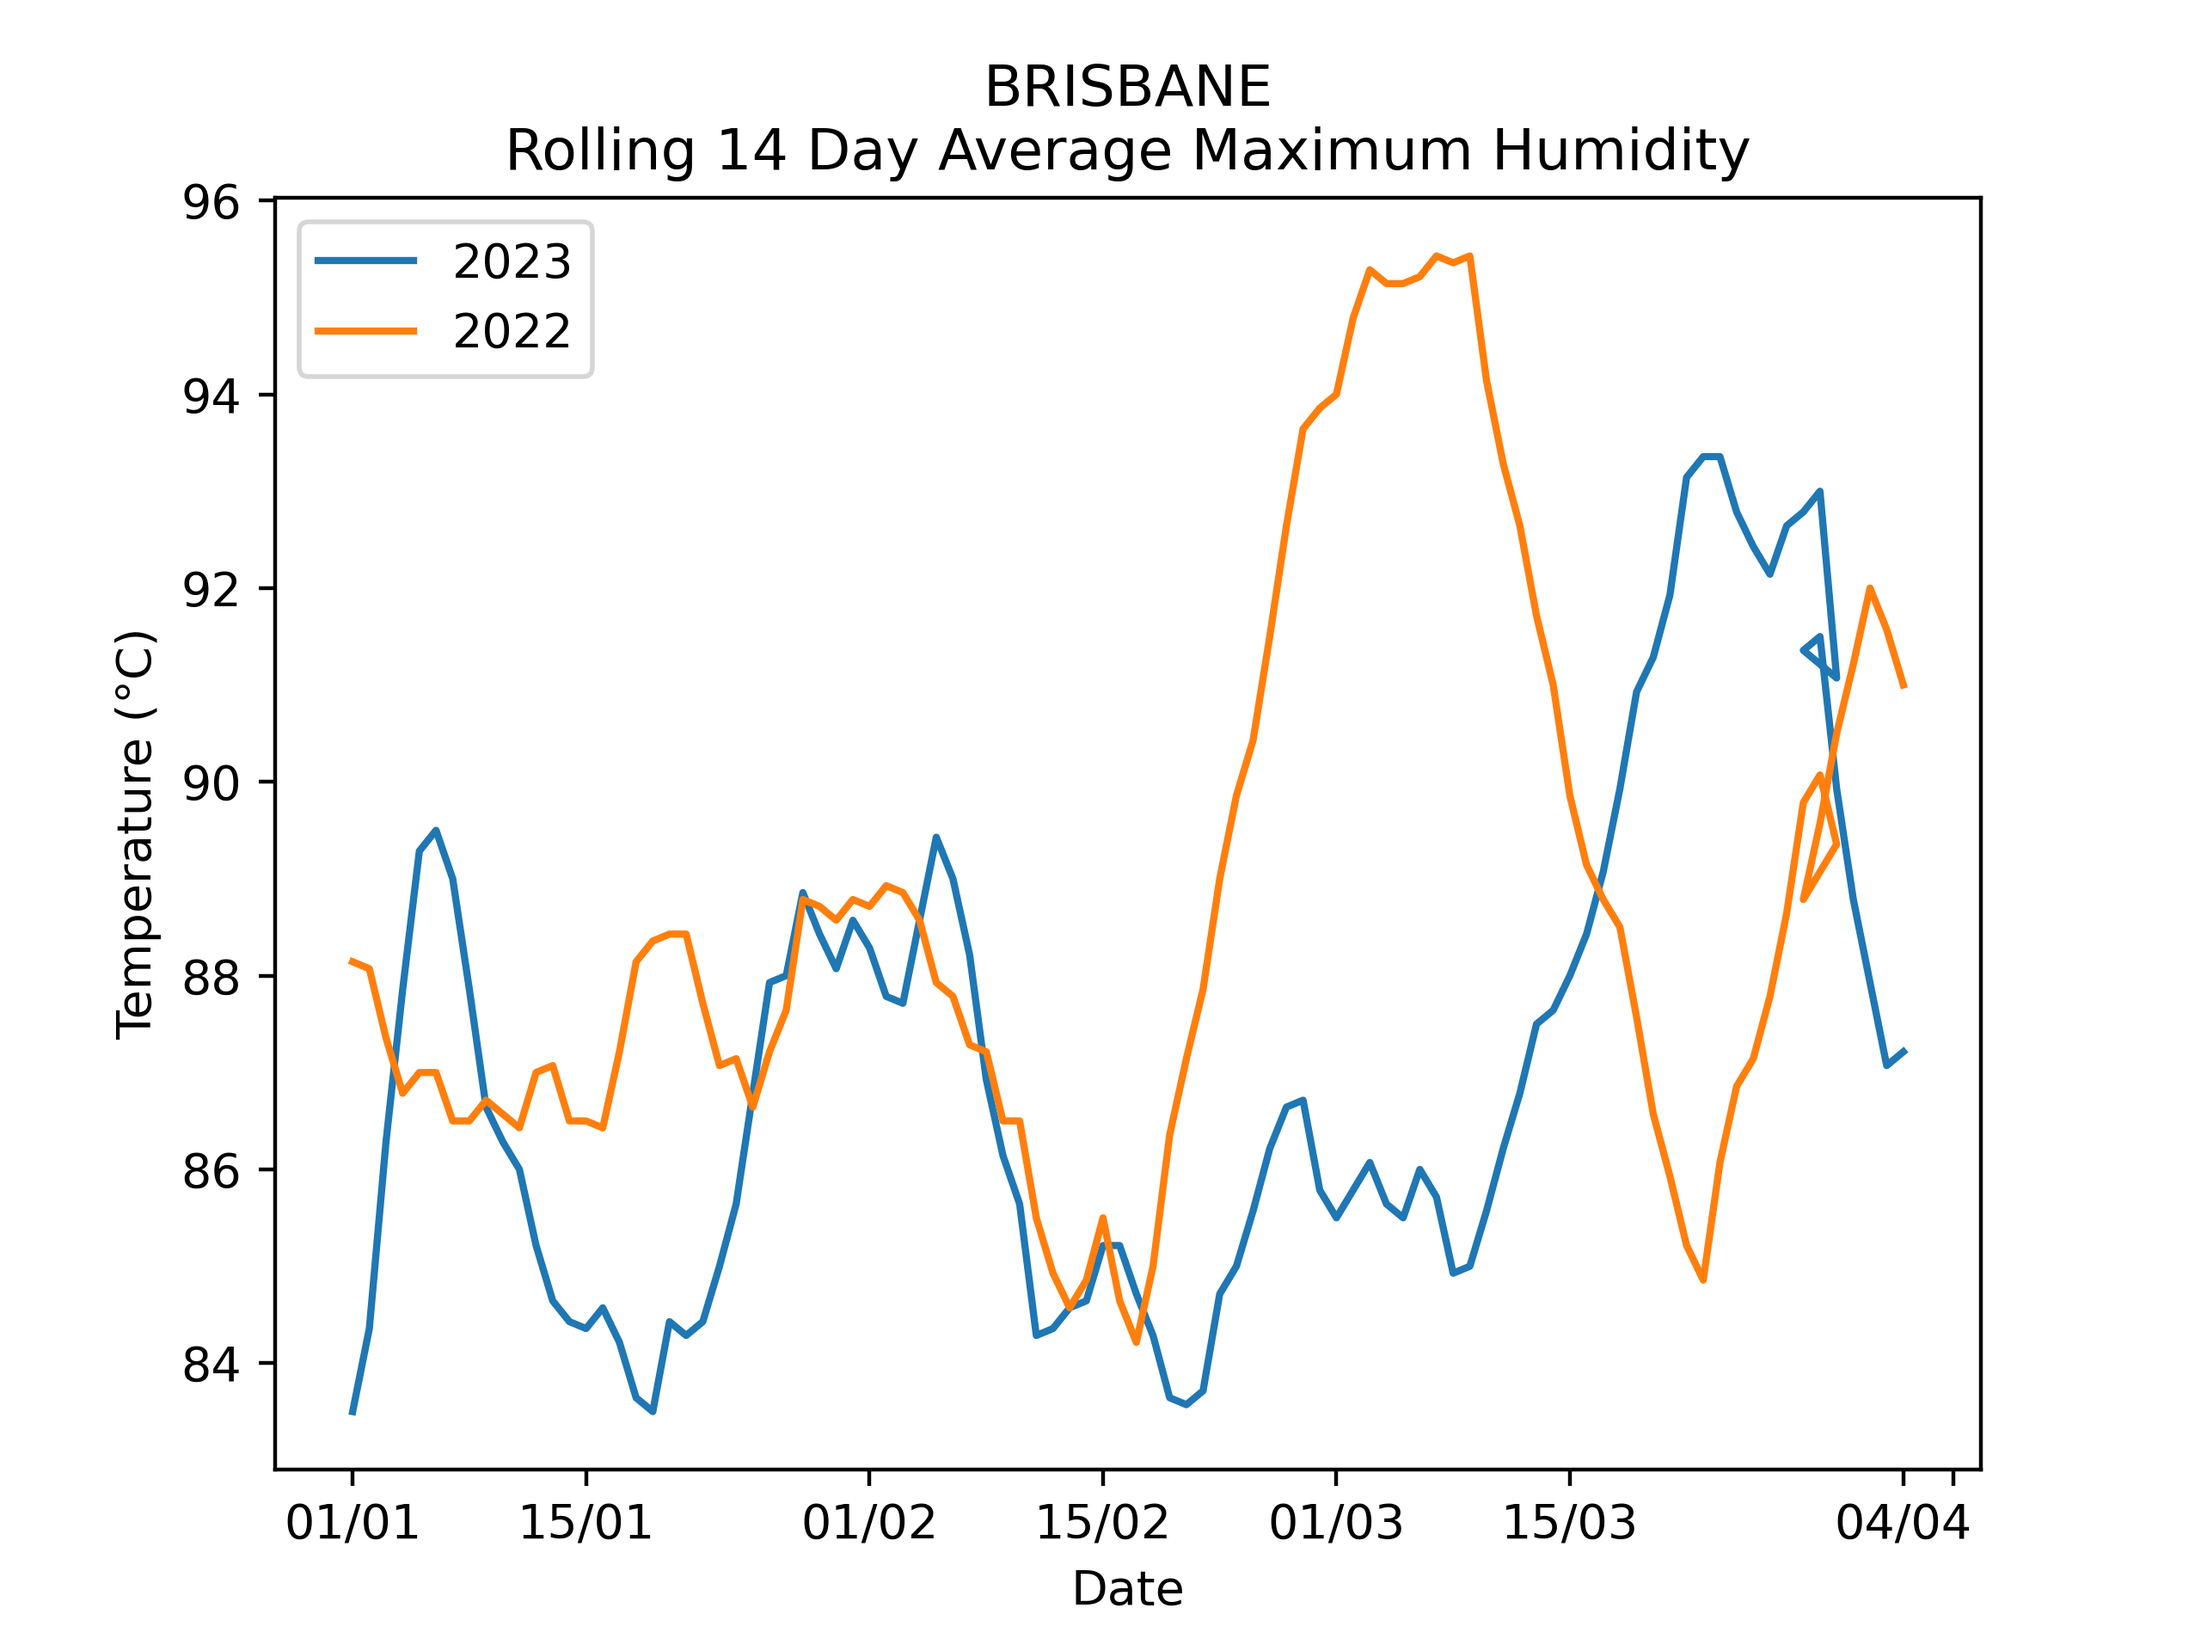
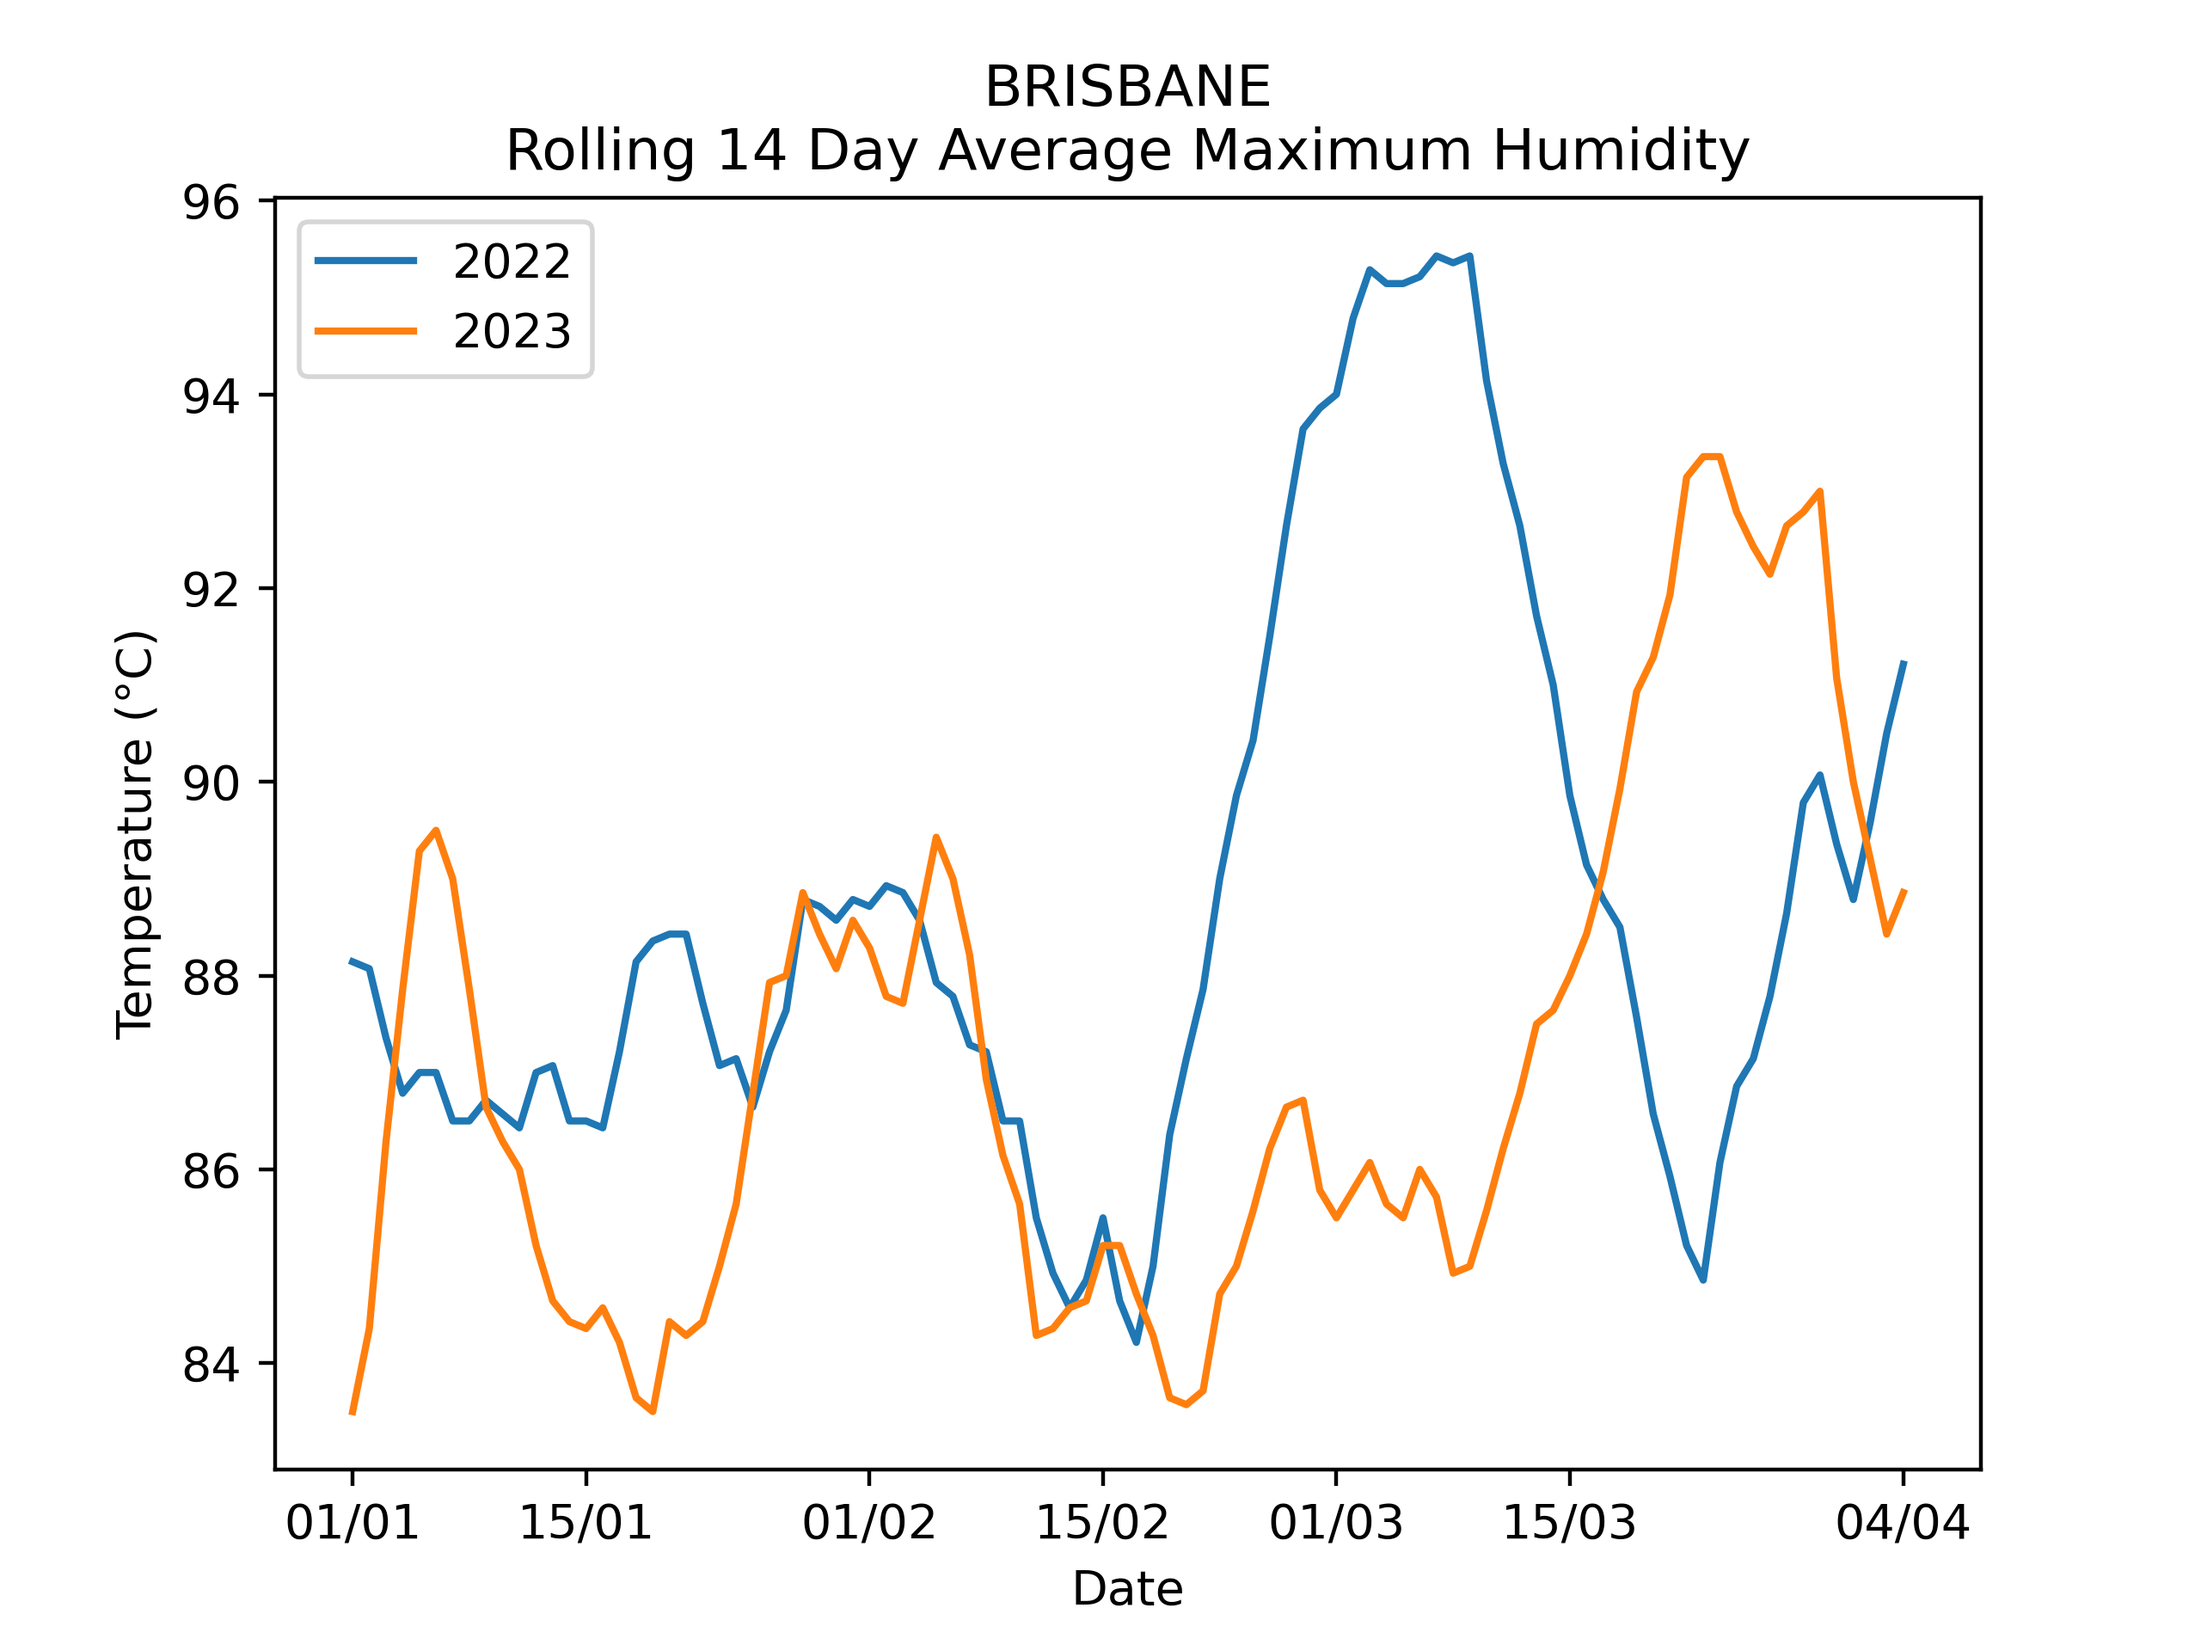
updated make_all to remove dupes

diff --git a/make_all.py b/make_all.py
@@ -4,18 +4,23 @@ import shutil
 import urllib.request
 from pathlib import Path
 
-
-size1 = Path('IDCKWCDEA0.tgz').stat().st_size
-size2 = int(urllib.request.urlopen('ftp://ftp.bom.gov.au/anon/gen/clim_data/IDCKWCDEA0.tgz').info()['Content-length'])
-if size1 != size2:
+def get_data():
     print('Downloading New File')
     urllib.request.urlretrieve('ftp://ftp.bom.gov.au/anon/gen/clim_data/IDCKWCDEA0.tgz', 'IDCKWCDEA0.tgz')
     print('Unpacking File')
     shutil.unpack_archive('IDCKWCDEA0.tgz')
     print('File Unpacked')
 
-rows = []
+if not Path('IDCKWCDEA0.tgz').is_file():
+    get_data()
+else:
+    size1 = Path('IDCKWCDEA0.tgz').stat().st_size
+    size2 = int(urllib.request.urlopen('ftp://ftp.bom.gov.au/anon/gen/clim_data/IDCKWCDEA0.tgz').info()['Content-length'])
+    if size1 != size2:
+        get_data()
 
+
+data = {}
 print('Start Reading Files')
 total_files = sum(1 for _ in Path("tables").rglob("*"))
 for idx, p in enumerate(Path("tables").rglob("*")):
@@ -32,12 +37,17 @@ for idx, p in enumerate(Path("tables").rglob("*")):
                 date = datetime.datetime.strptime(row[1], "%d/%m/%Y").date()
             except ValueError:
                 continue
-            new_row = [date, row[0], row[5], row[6], row[7], row[8]]
-            rows.append(['' if x==' ' else x for x in new_row])
+            new_row = [row[5], row[6], row[7], row[8]]
+            if row[0] not in data:
+                data[row[0]] = {}
+            data[row[0]][date] = ['' if x==' ' else x for x in new_row]
+
 
 print('Creating CSV')
 with open('temp_all.csv', 'w', encoding='utf-8', newline='') as out_file:
     w = csv.writer(out_file)
-    w.writerow(['date', 'location', 'max_temp', 'min_temp', 'max_humidity', 'min_humidity'])
-    w.writerows(rows)
+    w.writerow(['location', 'date', 'max_temp', 'min_temp', 'max_humidity', 'min_humidity'])
+    for location, datum in data.items():
+        for date, value in datum.items():
+            w.writerow([location, date]+value)
 print('Done')

diff --git a/analysis.py b/analysis.py
@@ -1,7 +1,7 @@
 import pandas as pd
 import matplotlib.pyplot as plt
 
-df = pd.read_csv('temp_all.csv', parse_dates=[0])
+df = pd.read_csv('temp_all.csv', parse_dates=[1])
 df = df.set_index(df.date)
 df['year'] = df.date.dt.year
 df['month'] = df.date.dt.month
@@ -28,8 +28,8 @@ for location in locations:
         df_rolling = df_location.rolling(
             14, min_periods=1).mean(numeric_only=True)[column]
         x = df_location.loc['2023'].date.dt.strftime('%d/%m').to_list()
-        plt.plot(x, df_rolling.loc['2023'].iloc[:len(x)], label=2023)
         plt.plot(x, df_rolling.loc['2022'].iloc[:len(x)], label=2022)
+        plt.plot(x, df_rolling.loc['2023'].iloc[:len(x)], label=2023)
         plt.legend(loc="upper left")
         plt.xlabel('Date')
         plt.ylabel('Temperature (°C)')
@@ -40,6 +40,8 @@ for location in locations:
                 xticks.append(idx)
         if (len(x)-1) not in xticks:
             xticks.append(len(x)-1)
+        if xticks[-1]-xticks[-2] < 10:
+            xticks.pop(-2)
         plt.xticks(xticks)
         plt.savefig('images/'+location.split()[0]+'_'+column, dpi=400)
         plt.clf()
